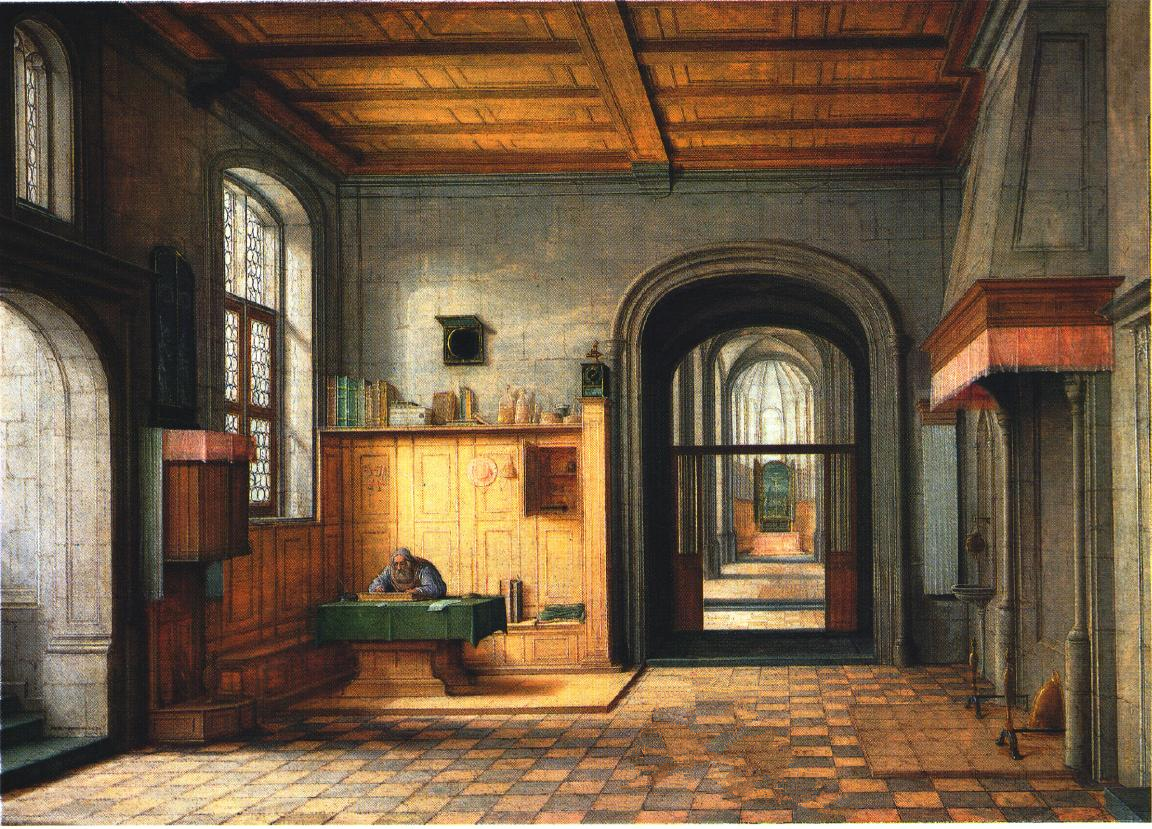
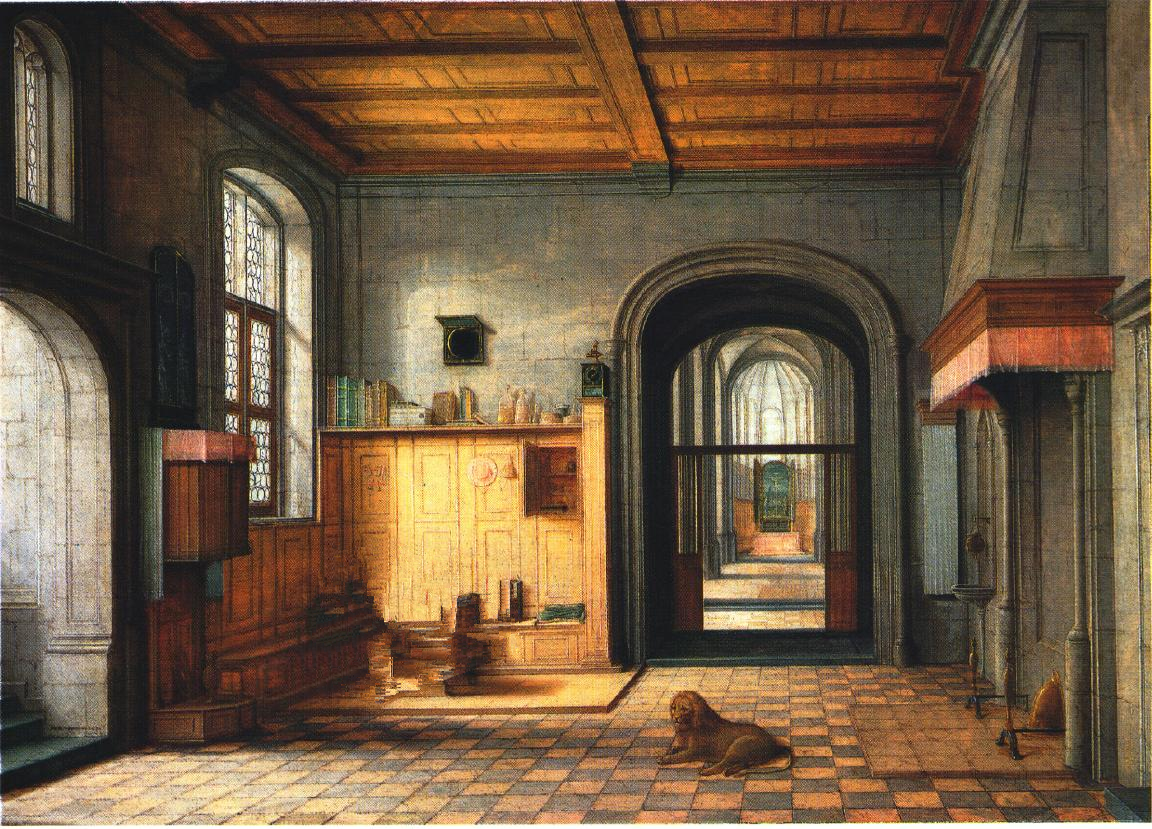
add foreground

Changed region(s): [[0.25, 0.6634, 0.4688, 0.8444], [0.5312, 0.7841, 0.75, 0.9952]]

diff --git a/main.m b/main.m
@@ -58,17 +58,18 @@ backgroundDouble = im2double(background);
 filledBackground = inpaintExemplar(backgroundDouble, combinedMask);
 
 % Save the filled background
-%imwrite(filledBackground, 'filled_background.png');
+imwrite(filledBackground, 'filled_background.png');
 
 % Display the filled background
-figure;
-imshow(filledBackground);
-title('Filled Background');
+%figure;
+%imshow(filledBackground);
+%title('Filled Background');
 
 
 
 % Load the filled background image
 image = imread('filled_background.png');
+
 
 f = 300;
 % #########################################################
@@ -100,35 +101,7 @@ vertices2d(:, 2) = (px_h - px_vertices2d(:, 2) + 1);
 vertices3d = vertices3D(vertices2d, f);
 
 
-% save all foregroung pixel in a matirx (px_x, px_y, rgb values)
-foreground_size =  size(combinedMask(combinedMask(:,:) == 1), 1)
-size(image)
-size(foreground)
-px_foreground_coord2d = zeros(foreground_size, 5);
-
-itemp = 0;
-
-for i=1:px_h
-    for j=1:px_w
-        if combinedMask(i,j)== 1 
-            itemp = itemp+1;
-           
-            px_foreground_coord2d(itemp,1)=j;
-            px_foreground_coord2d(itemp,2)=i;
-            px_foreground_coord2d(itemp,3:5)=foreground(i,j,:);
-        end
-    end
-end
-
-
-% invert "y" pixel 
-
-px_foreground_coord2d(:, 2) = px_h - px_foreground_coord2d(:, 2) + 1;
-% scale coordinates
-
-
-
-pixels3D = pixels2Dto3D(image, vertices2d,vertices3d,f, px_foreground_coord2d, grad);
+pixels3D = pixels2Dto3D(image, vertices2d,vertices3d,f, foreground, combinedMask);
 
 
 xx=pixels3D(:,1);
@@ -291,7 +264,7 @@ function vertices3d = vertices3D(vertices2d, f)
     
 end
 
-function [pixels3D] = pixels2Dto3D(img, vertices2d,vertices3d,f, foreground_coord2d, grad)
+function [pixels3D] = pixels2Dto3D(img, vertices2d,vertices3d,f, foreground, combinedMask)
   
     H  = vertices3d(7,2); % height
     leftx   = vertices3d(1,1);
@@ -312,7 +285,7 @@ function [pixels3D] = pixels2Dto3D(img, vertices2d,vertices3d,f, foreground_coor
     grad(3) = (vertices2d(8,2)-vpy)/(vertices2d(8,1)-vpx); %  
     grad(4) = (vertices2d(7,2)-vpy)/(vertices2d(7,1)-vpx); %  
  
-    floor = @(point2d) (point2d(2) <= b1(2)) && (point2d(2) <= point2d(1)*grad(1)) && (point2d(2) <= point2d(1)*grad(2));
+    bottom = @(point2d) (point2d(2) <= b1(2)) && (point2d(2) <= point2d(1)*grad(1)) && (point2d(2) <= point2d(1)*grad(2));
     right_wall = @(point2d) (point2d(1) >= b2(1)) && (point2d(2) <= point2d(1)*grad(3)) && (point2d(2)>= point2d(1)*grad(2));
     ceiling = @(point2d) (point2d(2)>=b8(2)) && (point2d(2) >= point2d(1)*grad(3)) && (point2d(2)>=point2d(1) * grad(4));
     left_wall = @(point2d) (point2d(1) <= b7(1)) && (point2d(2) <= point2d(1) * grad(4)) && (point2d(2)>=point2d(1)*grad(1) );
@@ -321,9 +294,10 @@ function [pixels3D] = pixels2Dto3D(img, vertices2d,vertices3d,f, foreground_coor
  
    
 
-    length_foreground=size(foreground_coord2d,1);
-    [h, w, c] = size(img)
-    pixels3D = zeros((h*w),6);
+    foreground_size = size(combinedMask(combinedMask(:,:) == 1), 1)
+    [h, w, c] = size(img);
+    length = h*w;
+    pixels3D = zeros(length+foreground_size,6);
 
     for i=1:size(img,1)
         for j=1:size(img,2)
@@ -359,7 +333,7 @@ function [pixels3D] = pixels2Dto3D(img, vertices2d,vertices3d,f, foreground_coor
             pixels3D(idx,2)=-pixels3D(idx,3)/f*(point2d(2)-vp(2))+vp(2);
             
             % floor
-            elseif floor(point2d-vp(1:2))
+            elseif bottom(point2d-vp(1:2))
                 pixels3D(idx,2)=0;
                 pixels3D(idx,3)=-vp(2)/(vp(2)-point2d(2))*f;
                 pixels3D(idx,1)=-pixels3D(idx,3)/f*(point2d(1)-vp(1))+vp(1);
@@ -368,7 +342,32 @@ function [pixels3D] = pixels2Dto3D(img, vertices2d,vertices3d,f, foreground_coor
             end
         end
     end
-    %{
+    
+       % save all foregroung pixel in a matirx (px_x, px_y, rgb values)
+    
+
+    foreground_coord2d = zeros(foreground_size, 5);
+
+    itemp = 0;
+
+    for i=1:h
+        for j=1:w
+            if combinedMask(i,j)== 1 
+                itemp = itemp+1;
+            
+                foreground_coord2d(itemp,1)=j;
+                foreground_coord2d(itemp,2)=i;
+                foreground_coord2d(itemp,3:5)=foreground(i,j,:);
+            end
+        end
+    end
+    % invert "y" pixel 
+
+    foreground_coord2d(:, 2) = h - foreground_coord2d(:, 2) + 1;
+    % scale coordinates
+    
+
+    
     fz_temp = 0;
     %[fore_x_min, fore_x_min] = [min(foreground_coord2d(:,1)), max(foreground_coord2d(:,1))];
     %[fore_y_min, fore_y_min] = [min(foreground_coord2d(:,1)), max(foreground_coord2d(:,1))];
@@ -379,28 +378,28 @@ function [pixels3D] = pixels2Dto3D(img, vertices2d,vertices3d,f, foreground_coor
     fore_x = min(foreground_coord2d(:,1))
 
     % select x coordinate if object is near to the right side
-    if px_width - max(foreground_coord2d(:,1)) < fore_x
+    if w- max(foreground_coord2d(:,1)) < fore_x
         fore_x = max(foreground_coord2d(:,1))
     end
     fore_y = floor((min(foreground_coord2d(:,2))+min(foreground_coord2d(:,2)))/2)
     
     point2d = [fore_x , fore_y]
 
-    if is_bottom__plane(point2d-vp(1:2))
+    if bottom(point2d-vp(1:2))
         fz_temp=-vp(2)/(vp(2)-point2d(2))*f;
     
-    elseif is_top_plane(point2d-vp(1:2))
+    elseif ceiling(point2d-vp(1:2))
         fz_temp=-(vp(2)-H)/(vp(2)-point2d(2))*f;
         
-    elseif is_left_plane(point2d-vp(1:2))
+    elseif left_wall(point2d-vp(1:2))
         fz_temp=-(vp(1)-leftx)/(vp(1)-point2d(1))*f;
-    elseif is_right_plane(point2d-vp(1:2))
+    elseif right_wall(point2d-vp(1:2))
         fz_temp= -(vp(1)-rightx)/(vp(1)-point2d(1))*f;
-    elseif is_center_plane(point2d-vp(1:2))
+    elseif back_wall(point2d-vp(1:2))
         fz_temp=vp(3); 
     end
     % Calculate foregound z
-    vp(3)
+    
     %fz_temp =-1000
     z_for = fz_temp
     
@@ -414,6 +413,6 @@ function [pixels3D] = pixels2Dto3D(img, vertices2d,vertices3d,f, foreground_coor
     pixels3D(1+length:end,3)= z_for; 
     pixels3D(1+length:end,2)=-z_for/f*(point2d(:,2)-vp(2))+vp(2);
     pixels3D(1+length:end,1)=-z_for/f*(point2d(:,1)-vp(1))+vp(1); 
-    %}
+    
 end
 
